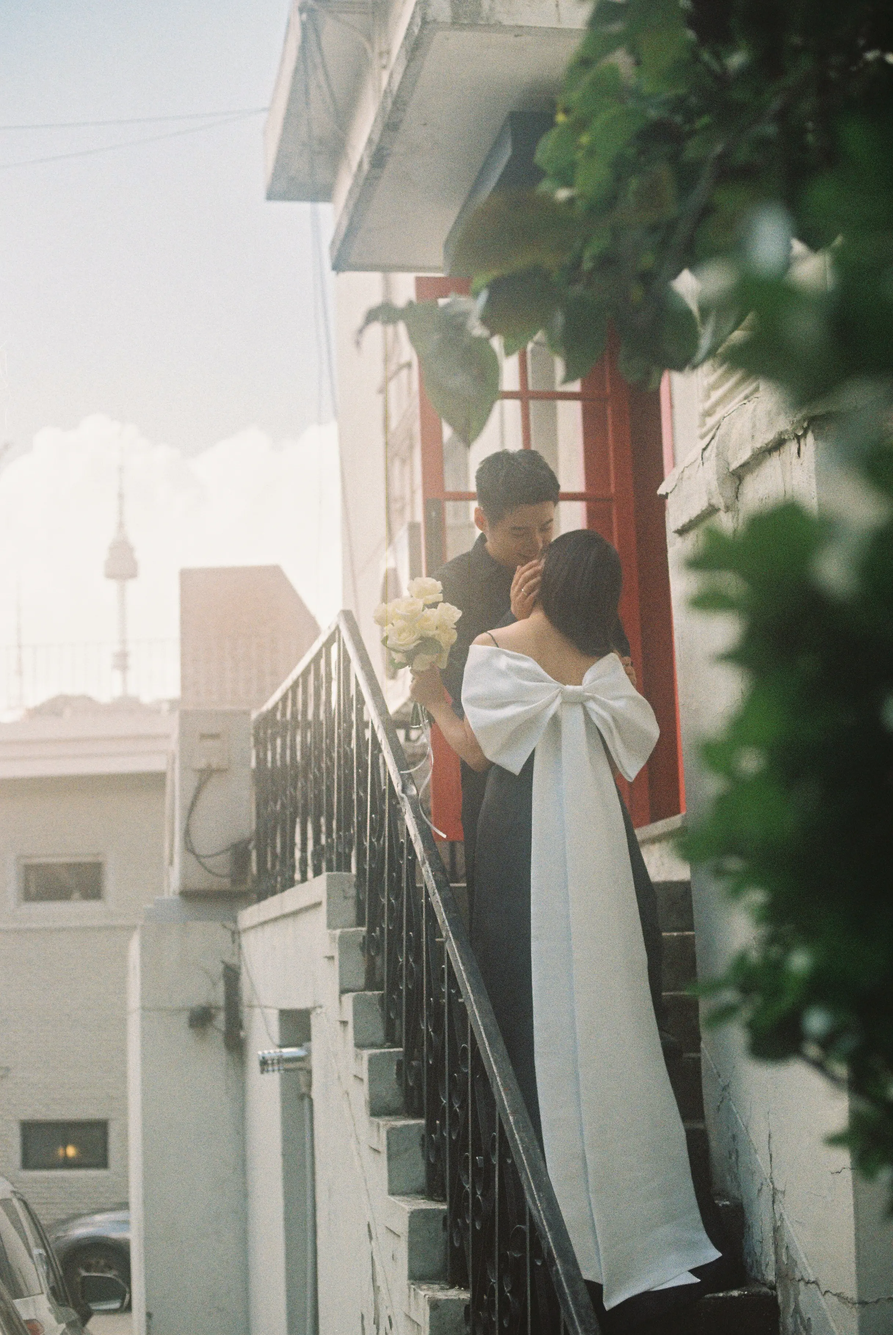
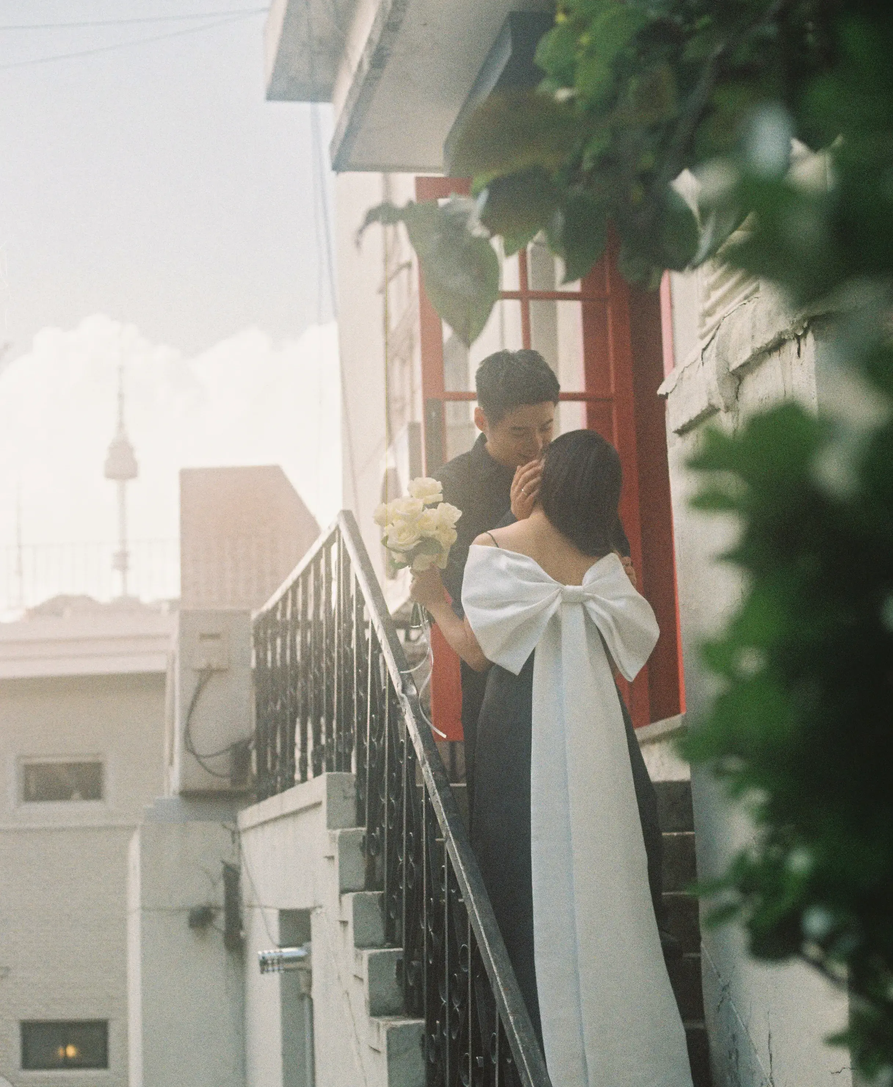
🍱 Update gallery images

diff --git a/src/lib/invitation.svelte b/src/lib/invitation.svelte
@@ -1,4 +1,4 @@
-<div class="bg-gray-50 px-6 py-24 sm:py-32 lg:px-8">
+<div class="bg-white px-6 py-24 sm:py-32 lg:px-8">
     <div class="mx-auto max-w-sm px-8 sm:max-w-lg sm:px-0"><img src="/imgs/ribbon.webp" alt="재우 ♥ 채연" loading="lazy"></div>
     <div class="mx-auto max-w-2xl text-center">
       <p class="text-base font-semibold leading-7 tracking-widest gallery">Invitation</p>
@@ -10,7 +10,7 @@
       <p class="body">두 손 잡고 웃으며 한 걸음씩 걸어가겠습니다.</p>
       <p class="mt-6 body">그 시작을 축복해주세요</p>
     </div>
-    <div class="mx-auto max-w-sm px-8 pt-6 sm:max-w-lg sm:px-0"><img src="/imgs/namecard.webp" alt="name card" loading="lazy"></div>
+    <div class="mx-auto max-w-sm px-8 pt-6 sm:max-w-lg sm:px-0"><img src="/imgs/signature.webp" alt="SO and BAE's signature" loading="lazy"></div>
   </div>
 
 <style lang="postcss">

diff --git a/src/lib/gallery_black.svelte b/src/lib/gallery_black.svelte
@@ -2,12 +2,12 @@
   import Gallery from '$lib/gallery.svelte';
 
   const images = [
-    "door_1.webp", "door_2.webp", "door_3.webp", "door_4.webp", "door_5.webp", "door_6.webp", "door_7.webp",
-    "house_1.webp", "house_3.webp", "house_2.webp", "house_4.webp", "house_5.webp", "house_6.webp", "house_8.webp", "house_7.webp",
-    "wine_1.webp", "wine_2.webp", "wine_3.webp", "wine_4.webp", "out_1.webp"
+    "door_1.webp", "door_2.webp", "door_6.webp", "door_5.webp", "door_7.webp",
+    "house_3.webp", "house_2.webp", "house_6.webp", "house_8.webp", "house_7.webp",
+    "wine_1.webp", "wine_2.webp", "wine_3.webp"
   ];
 </script>
 
-<div class="lg:h-24 bg-gray-50"></div>
+<div class="h-24 bg-gray-50"></div>
 <Gallery imgPath="imgs/black_gallery" {images}/>
 <div class="h-24 bg-gray-50"></div>

diff --git a/src/lib/gallery_white.svelte b/src/lib/gallery_white.svelte
@@ -2,12 +2,13 @@
   import Gallery from '$lib/gallery.svelte';
 
   const images = [
-    "white_gallery_cover.webp", "sit_1.jpg", "sit_2.jpg", "sit_3.jpg", "sit_4.jpg", "sit_5.jpg", "sit_6.jpg",
+    "white_gallery_cover.webp", "sit_1.jpg", "sit_4.jpg", "sit_5.jpg", "sit_6.jpg",
     "chair_1.jpg", "chair_2.jpg", "chair_3.jpg", "bed_0.jpg", "bed_1.jpg", "bed_2.jpg", "bed_3.jpg",
-    "bed_4.jpg", "bed_5.jpg", "bed_6.webp", "bed_7.jpg", "bed_9.jpg", "stand.jpg"
+    "bed_4.jpg", "bed_5.jpg", "bed_7.jpg", "bed_9.jpg", "stand.jpg"
   ];
 </script>
 
+<div class="h-24 bg-gray-50"></div>
 <div class="bg-gray-50 px-6 py-24 sm:pt-32 lg:px-8">
   <div class="mx-auto max-w-2xl text-center">
     <p class="text-base font-semibold leading-7 tracking-widest gallery">Gallery</p>

diff --git a/src/lib/green_card.svelte b/src/lib/green_card.svelte
@@ -16,7 +16,7 @@
 
 <style lang="postcss">
   .bg {
-    background-color: #8FA599;
+    background-color: #36864C;
   }
   .wrapper {
     display: flex;
@@ -33,7 +33,5 @@
     @media (min-width: 640px) {
       width: 90%;
     }
-  }
-  p {
   }
 </style>

diff --git a/src/lib/hero.svelte b/src/lib/hero.svelte
@@ -16,7 +16,7 @@
         <h2>2023</h2>
       </div>
       <div class="items">
-        <p>THE AMBASSADOR SEOUL</p>
+        <p>AMBASSADOR PULLMAN</p>
         <p>NAMSAN ROOM</p>
       </div>
     </div>
